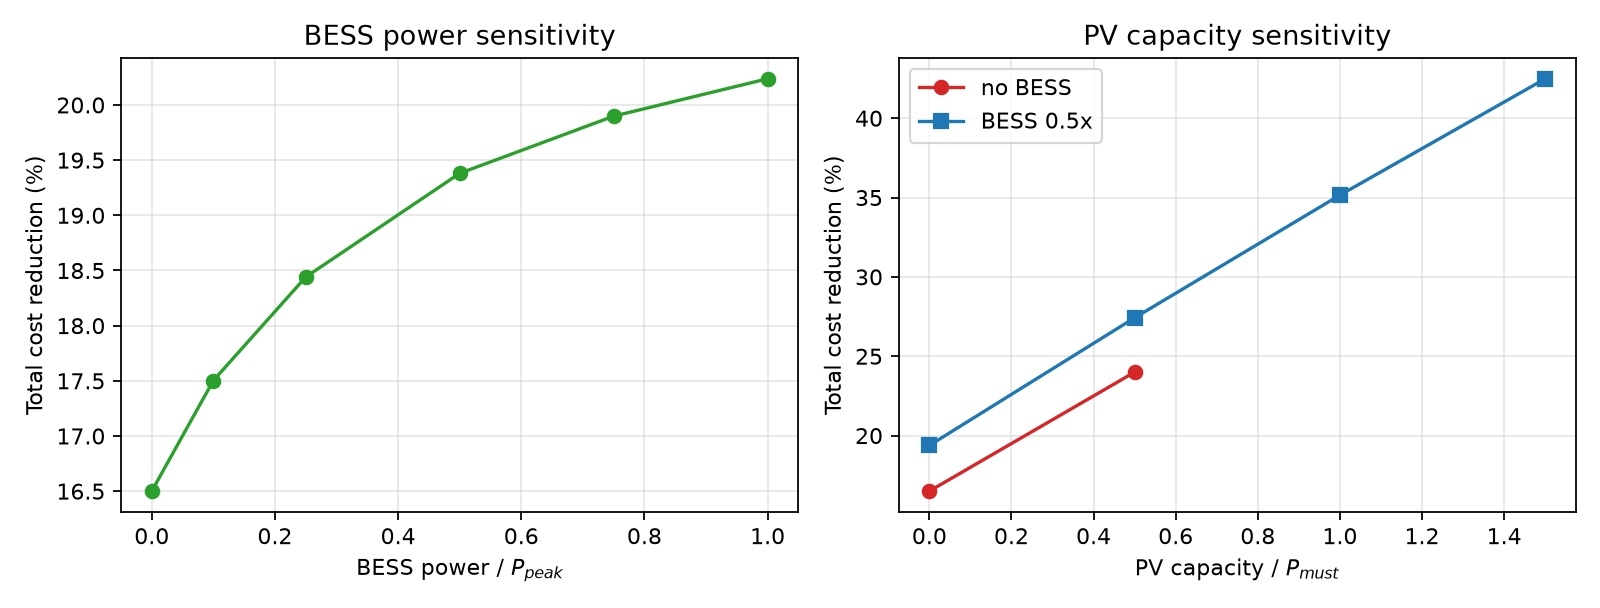
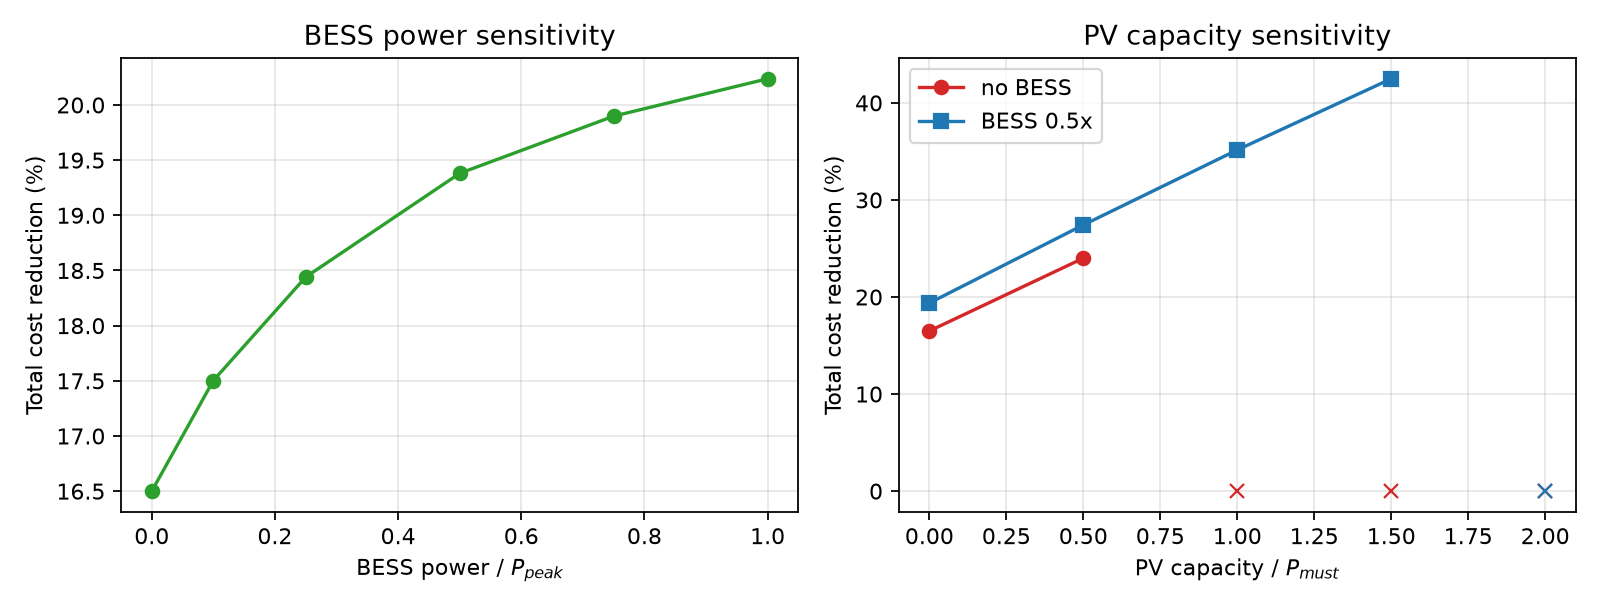
图表标注不可行点（×），避免 no BESS 只显示两点造成误导
PV/并网/爬坡扫参中的不可行组合在 y=0 处以 × 标记，说明可行性边界。

diff --git a/scripts/plot_results.py b/scripts/plot_results.py
@@ -41,6 +41,10 @@ def _feasible(rows):
     return [(x, rd * 100.0) for x, ok, rd in rows if ok]
 
 
+def _infeasible_x(rows):
+    return [x for x, ok, _rd in rows if not ok]
+
+
 def main() -> None:
     inputs = _jan_inputs()
     FIGURES.mkdir(parents=True, exist_ok=True)
@@ -102,8 +106,12 @@ def main() -> None:
     axes[0].grid(alpha=0.3)
     px, pn = zip(*_feasible([(p, ok, rd) for p, ok, rd, _ in pv_no_bess]))
     axes[1].plot(px, pn, "o-", label="no BESS", color="#d62728")
+    for p in _infeasible_x([(p, ok, rd) for p, ok, rd, _ in pv_no_bess]):
+        axes[1].plot(p, 0, "x", color="#d62728")
     px2, pb = zip(*_feasible([(p, ok, rd) for p, ok, rd, _ in pv_bess]))
     axes[1].plot(px2, pb, "s-", label="BESS 0.5x", color="#1f77b4")
+    for p in _infeasible_x([(p, ok, rd) for p, ok, rd, _ in pv_bess]):
+        axes[1].plot(p, 0, "x", color="#1f77b4")
     axes[1].set_xlabel("PV capacity / $P_{must}$")
     axes[1].set_ylabel("Total cost reduction (%)")
     axes[1].set_title("PV capacity sensitivity")
@@ -123,12 +131,16 @@ def main() -> None:
     fig, axes = plt.subplots(1, 2, figsize=(10, 3.8))
     gx, grd = zip(*_feasible(gmax_rows))
     axes[0].plot(gx, grd, "o-", color="#9467bd")
+    for x in _infeasible_x(gmax_rows):
+        axes[0].plot(x, 0, "x", color="#9467bd")
     axes[0].set_xlabel("$G_{max} / P_{peak}$")
     axes[0].set_ylabel("Total cost reduction (%)")
     axes[0].set_title("Grid connection limit")
     axes[0].grid(alpha=0.3)
     rx, rrd = zip(*_feasible(rmax_rows))
     axes[1].plot(rx, rrd, "o-", color="#8c564b")
+    for x in _infeasible_x(rmax_rows):
+        axes[1].plot(x, 0, "x", color="#8c564b")
     axes[1].set_xlabel("$R_{max} / P_{peak}$ per h")
     axes[1].set_ylabel("Total cost reduction (%)")
     axes[1].set_title("Ramp rate limit")
